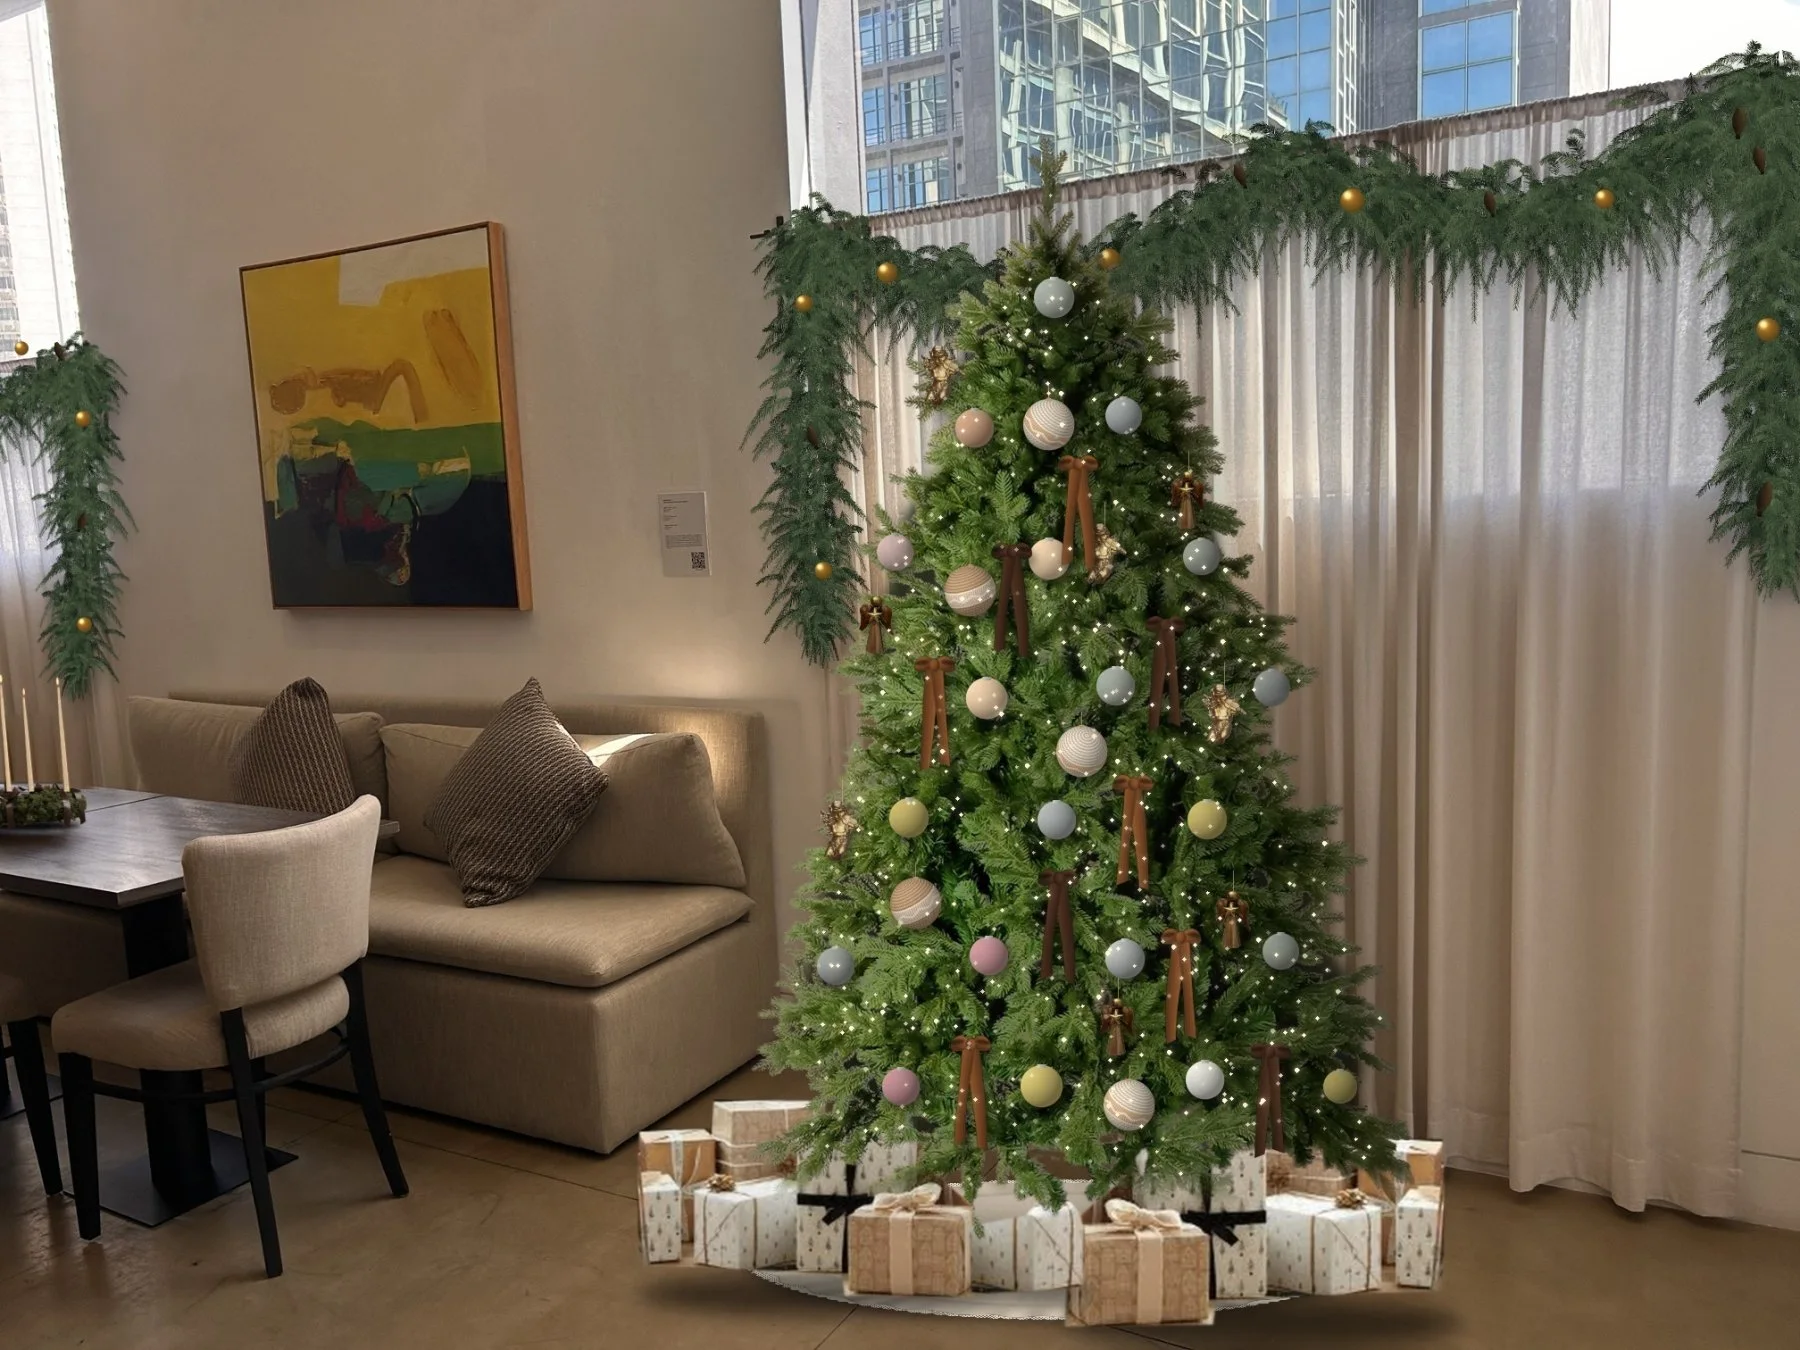
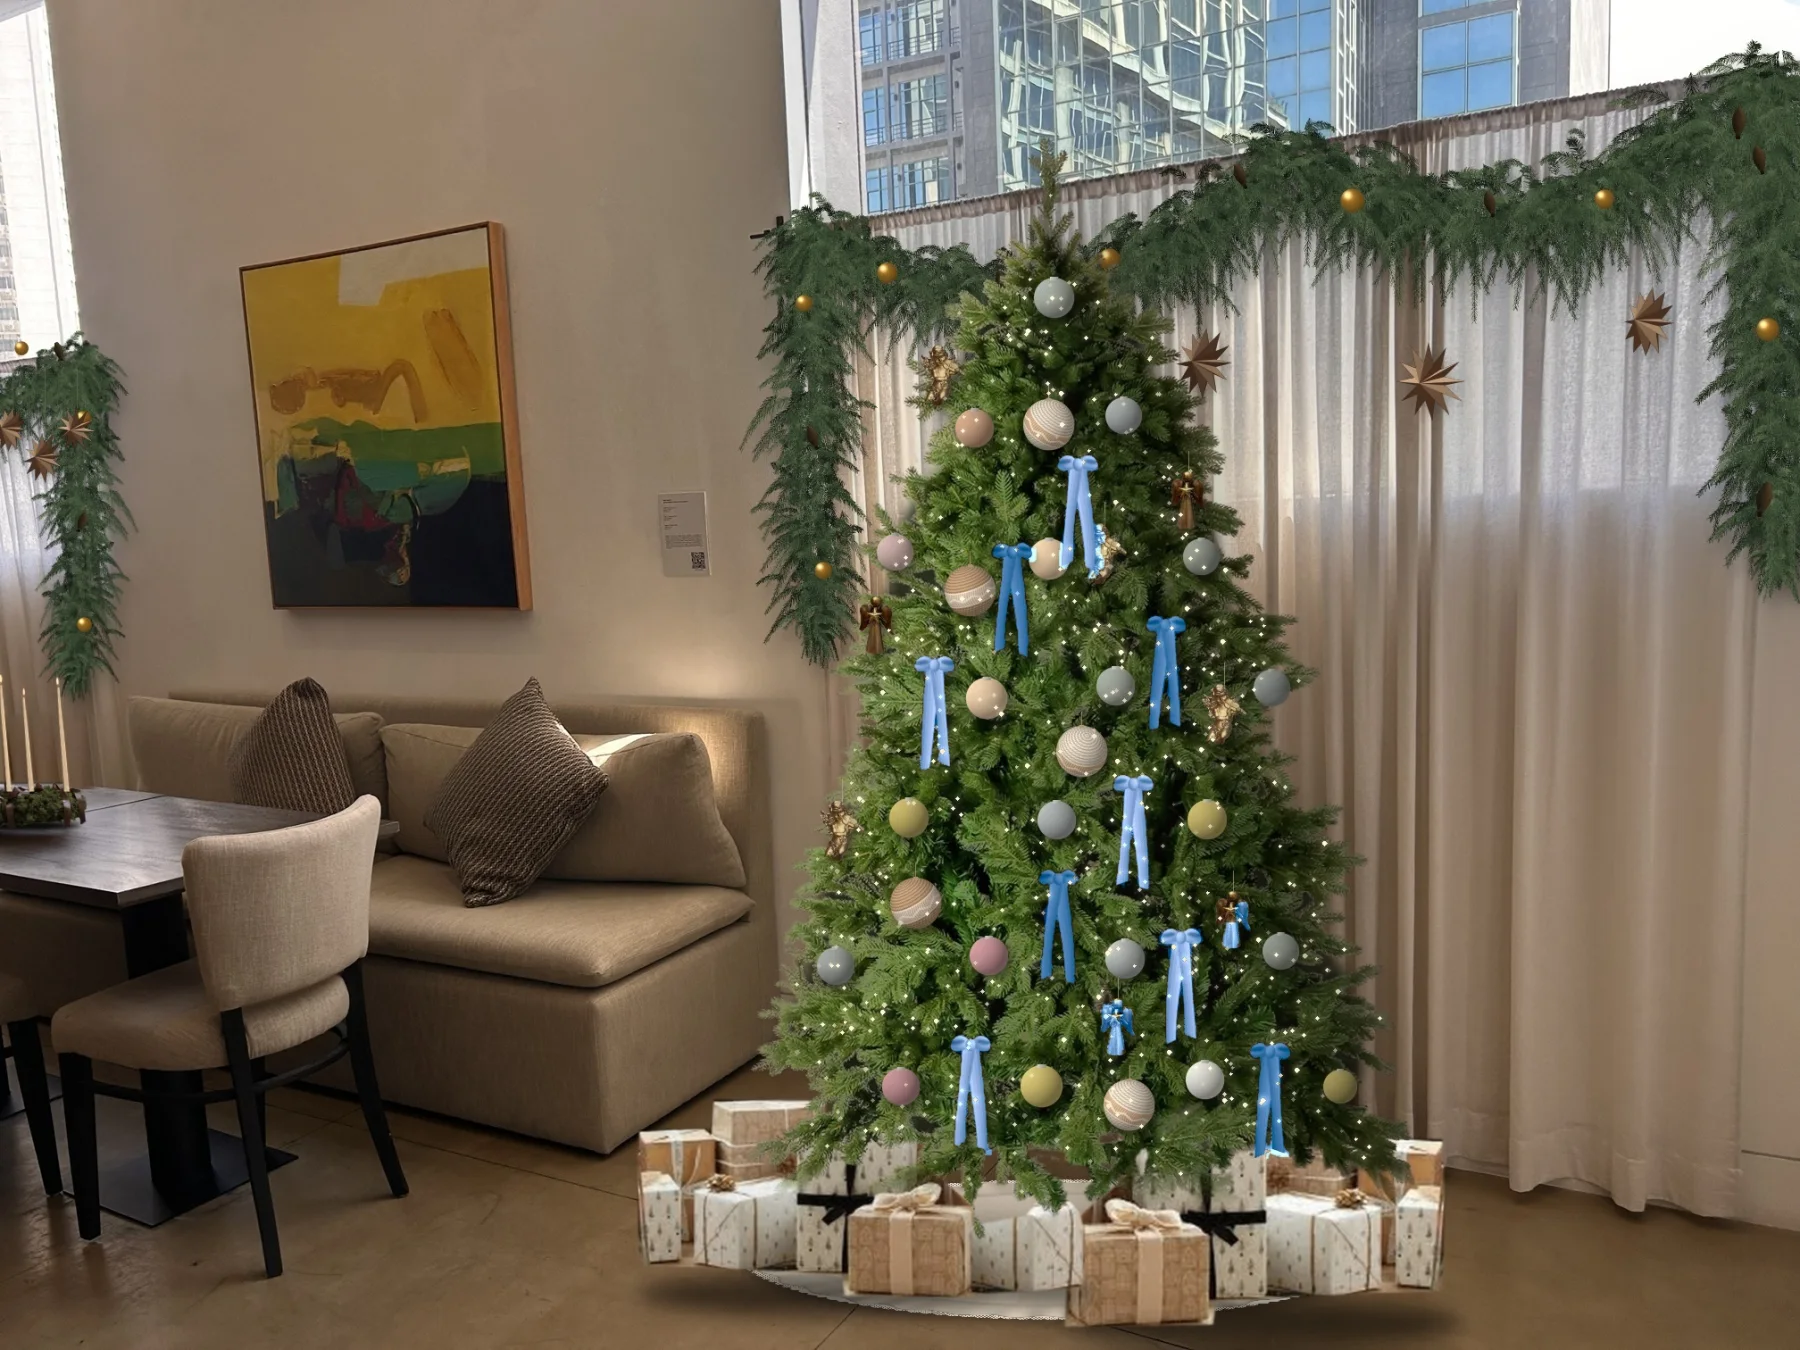
Kaffi concept: add bar front, cornflower blue ribbons on door wreaths and tree
Claude-Session: https://claude.ai/code/session_01GH687m9j9GhRmR5ivH2vMn

diff --git a/kaffi-concept-m7usbotbtu/index.html b/kaffi-concept-m7usbotbtu/index.html
@@ -89,12 +89,12 @@ section.render .wrap{padding-block:clamp(36px,6vw,64px);display:grid;gap:20px}
 
 <section class="render portrait" id="entrance"><div class="wrap">
 <div class="rhead"><span class="no">01</span><h2>Entrance doors</h2></div>
-<div class="frame"><img src="img/door.webp" width="1400" height="1867" alt="Glass entrance doors to Kaffi with a soft cedar wreath on each door, tied with long chocolate velvet ribbon and small gold bells"></div>
+<div class="frame"><img src="img/door.webp" width="1400" height="1867" alt="Glass entrance doors to Kaffi with a soft cedar wreath on each door, tied with long cornflower blue velvet ribbon and small gold bells"></div>
 </div></section>
 
 <section class="render" id="lounge"><div class="wrap">
 <div class="rhead"><span class="no">02</span><h2>Lounge tree and window garland</h2></div>
-<div class="frame"><img src="img/tree.webp" width="1800" height="1350" loading="lazy" alt="Lounge corner with a dressed Christmas tree, velvet bows, pastel and gold ornaments, kraft-wrapped gifts and cedar garlands across the windows"></div>
+<div class="frame"><img src="img/tree.webp" width="1800" height="1350" loading="lazy" alt="Lounge corner with a dressed Christmas tree, cornflower blue velvet bows, pastel and gold ornaments, kraft-wrapped gifts and cedar garlands across the windows"></div>
 </div></section>
 
 <section class="render" id="dining"><div class="wrap">
@@ -104,8 +104,13 @@ section.render .wrap{padding-block:clamp(36px,6vw,64px);display:grid;gap:20px}
 <div class="alt"><img src="img/alt-centrepiece.webp" width="829" height="1100" loading="lazy" alt="Reference: cedar and dried stems in a clear glass vase, dressed with gold glass ornaments and long dark velvet ribbons"><div><span>Alternative centrepiece</span><h3>Should moss be in short supply, we would love to style your tables in this spirit instead.</h3><p><em>Reference image only, for inspiration.</em></p></div></div>
 </div></section>
 
+<section class="render" id="bar"><div class="wrap">
+<div class="rhead"><span class="no">04</span><h2>Bar front</h2></div>
+<div class="frame"><img src="img/bar.webp" width="1800" height="1155" loading="lazy" alt="Kaffi bar with a straight cedar garland along the counter dressed with twinkle lights, pine cones and gold berries, cornflower blue velvet ribbon and bell drops on the cupboard garland, and a snowy village of white ceramic houses, bottle-brush and ceramic trees and two little bears on the pastry showcase"></div>
+</div></section>
+
 <section class="render" id="swatches"><div class="wrap">
-<div class="rhead"><span class="no">04</span><h2>Swatches</h2></div>
+<div class="rhead"><span class="no">05</span><h2>Swatches</h2></div>
 <div class="sw-grid">
 <figure><img src="img/sw-bells.webp" width="600" height="600" loading="lazy" alt="Brushed gold bells hung on jute rope"><figcaption><span>Bells</span><b>Brushed gold bells</b></figcaption></figure>
 <figure><img src="img/sw-bauble-jute.webp" width="600" height="600" loading="lazy" alt="Natural jute rope bauble with a cream woven band"><figcaption><span>Ornaments</span><b>Jute rope baubles</b></figcaption></figure>
